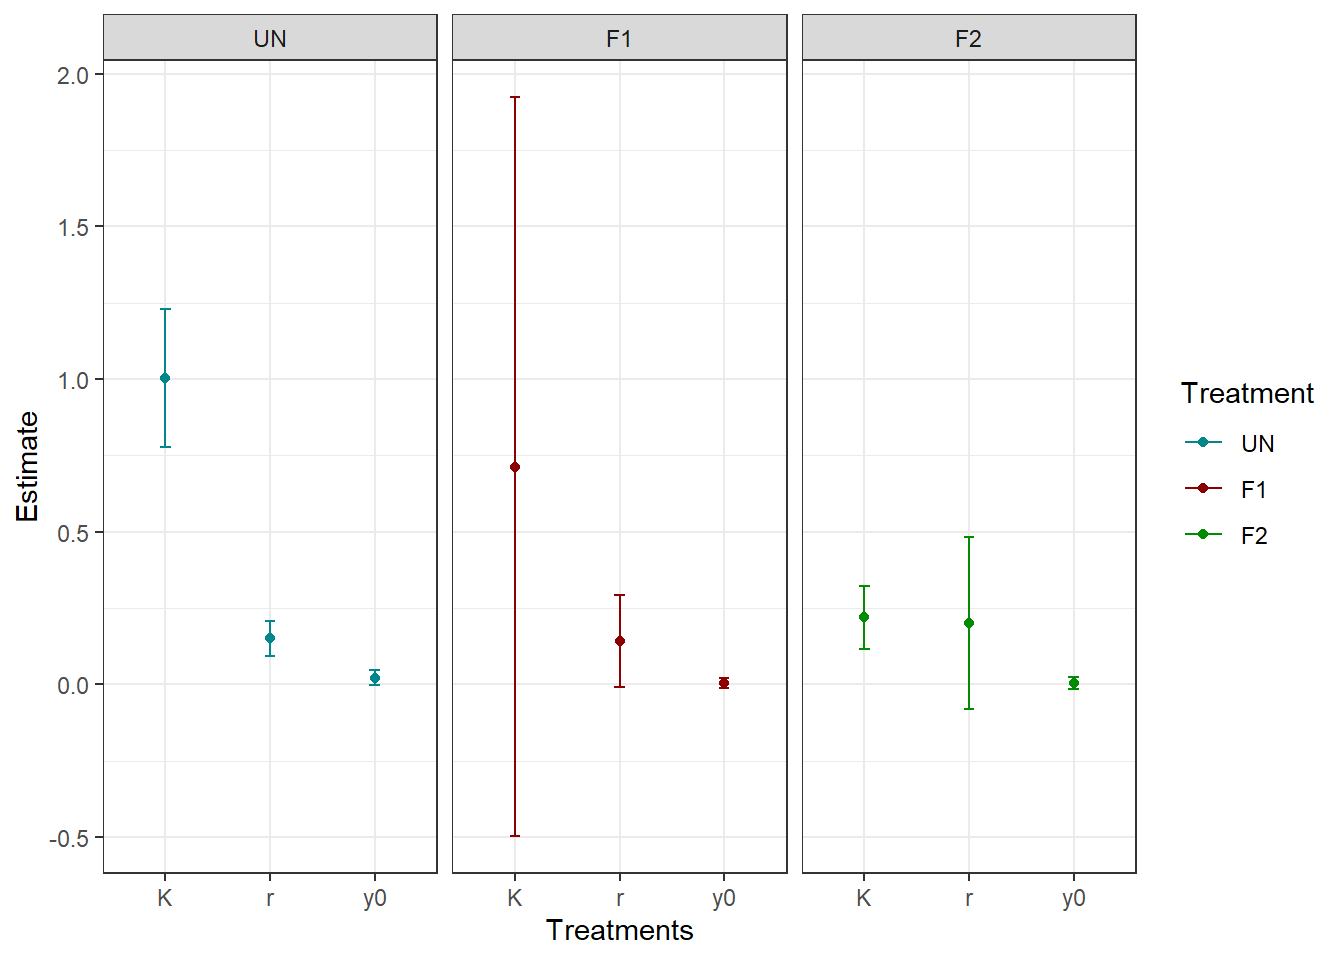
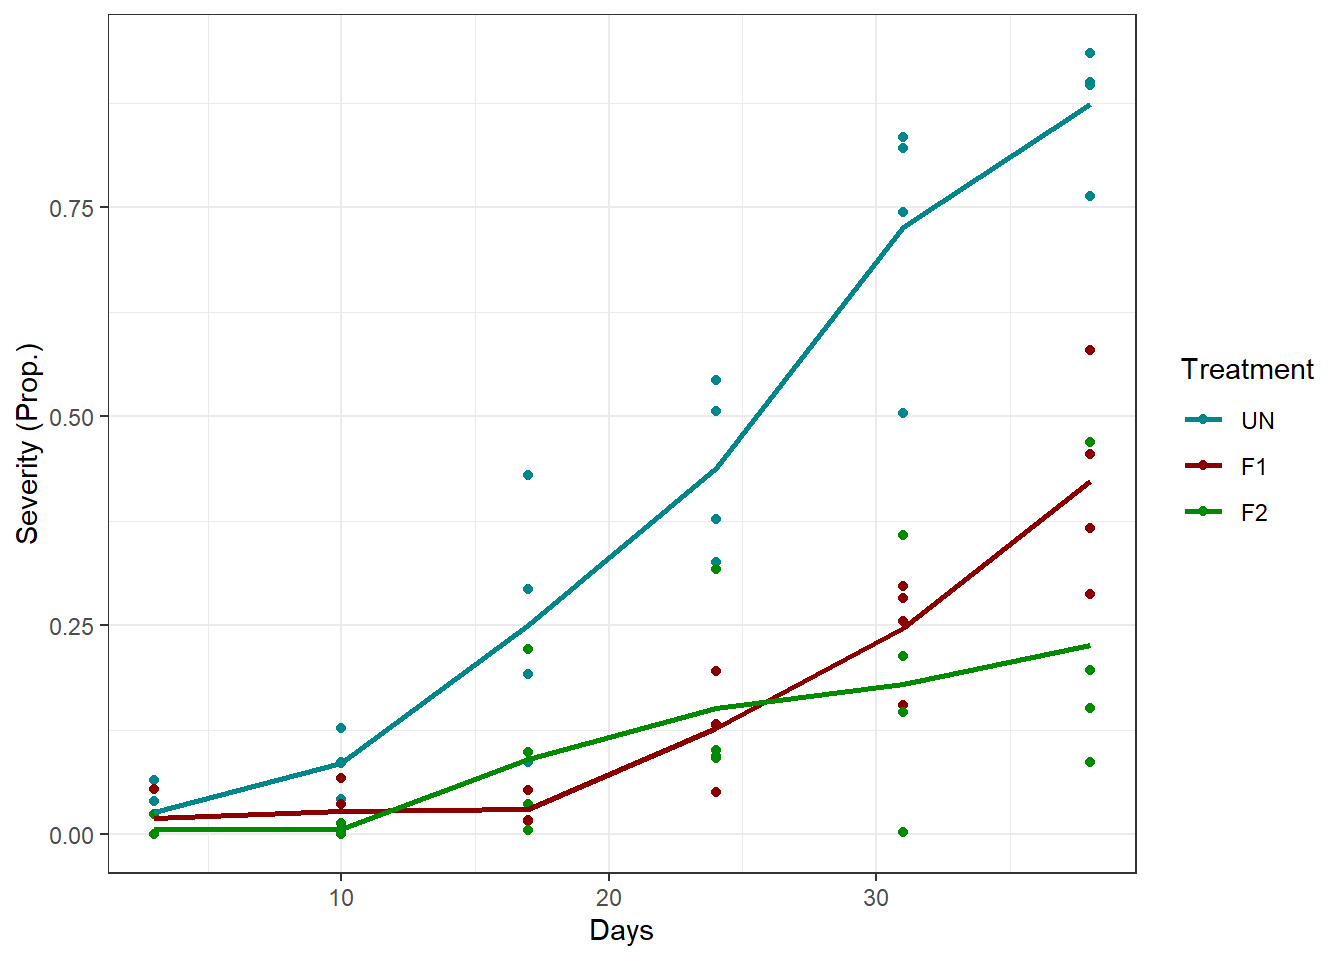
Link bug correction for hands on

diff --git a/docs/introduction-and-applied-example.html b/docs/introduction-and-applied-example.html
@@ -241,7 +241,7 @@ div.csl-indent {
 <span id="cb1-15"><a href="introduction-and-applied-example.html#cb1-15" tabindex="-1"></a>  <span class="fu">labs</span>(<span class="at">y =</span> <span class="st">&quot;Severity (Prop.)&quot;</span>, <span class="at">x =</span> <span class="st">&quot;Days&quot;</span>, <span class="at">colour =</span> <span class="st">&quot;Treatment&quot;</span>) <span class="sc">+</span></span>
 <span id="cb1-16"><a href="introduction-and-applied-example.html#cb1-16" tabindex="-1"></a>  <span class="fu">theme_bw</span>()</span></code></pre></div>
 </details>
-<p><img src="Analyzing-Biological-Processes-Over-Time_files/figure-html/unnamed-chunk-2-1.png" alt="" width="672" /></p>
+<p><img src="Analyzing-Biological-Processes-Over-Time_files/figure-html/unnamed-chunk-4-1.png" alt="" width="672" /></p>
 <p>How would you analyse this?</p>
 <ul>
 <li><p>Pick one time and proceed with ANOVA + Multiple comparison</p>
@@ -483,7 +483,7 @@ What are your thoughts on why we chose these options?
 <span id="cb5-6"><a href="introduction-and-applied-example.html#cb5-6" tabindex="-1"></a>  <span class="fu">facet_wrap</span>(<span class="sc">~</span>trt) <span class="sc">+</span></span>
 <span id="cb5-7"><a href="introduction-and-applied-example.html#cb5-7" tabindex="-1"></a>  <span class="fu">theme_bw</span>()</span></code></pre></div>
 </details>
-<p><img src="Analyzing-Biological-Processes-Over-Time_files/figure-html/unnamed-chunk-4-1.png" alt="" width="672" /></p>
+<p><img src="Analyzing-Biological-Processes-Over-Time_files/figure-html/unnamed-chunk-6-1.png" alt="" width="672" /></p>
 <details class=chunk-details><summary class=chunk-summary><span class=chunk-summary-text>Code</span></summary>
 <div class="sourceCode" id="cb6"><pre class="sourceCode r"><code class="sourceCode r"><span id="cb6-1"><a href="introduction-and-applied-example.html#cb6-1" tabindex="-1"></a><span class="fu">kable</span>(est_long)</span></code></pre></div>
 </details>
@@ -648,7 +648,7 @@ What are your thoughts on why we chose these options?
 <span id="cb9-16"><a href="introduction-and-applied-example.html#cb9-16" tabindex="-1"></a>  <span class="fu">labs</span>(<span class="at">y =</span> <span class="st">&quot;Severity (Prop.)&quot;</span>, <span class="at">x =</span> <span class="st">&quot;Days&quot;</span>, <span class="at">colour =</span> <span class="st">&quot;Treatment&quot;</span>) <span class="sc">+</span></span>
 <span id="cb9-17"><a href="introduction-and-applied-example.html#cb9-17" tabindex="-1"></a>  <span class="fu">theme_bw</span>()</span></code></pre></div>
 </details>
-<p><img src="Analyzing-Biological-Processes-Over-Time_files/figure-html/unnamed-chunk-7-1.png" alt="" width="672" /></p>
+<p><img src="Analyzing-Biological-Processes-Over-Time_files/figure-html/unnamed-chunk-9-1.png" alt="" width="672" /></p>
 <p><br><br></p>
 <p><strong>How many units of y are increasing per day for each curve at the maximum growth point</strong><a href="#fn5" class="footnote-ref" id="fnref5"><sup>5</sup></a>?</p>
 <p><span class="math display">\[\frac{Kr}{4}\]</span></p>
@@ -788,7 +788,7 @@ What are your thoughts on why we chose these options?
 <span id="cb12-22"><a href="introduction-and-applied-example.html#cb12-22" tabindex="-1"></a>  <span class="fu">labs</span>(<span class="at">y =</span> <span class="st">&quot;Severity (Prop.) at day 60&quot;</span>, <span class="at">x =</span> <span class="st">&quot;Treatments&quot;</span>, <span class="at">colour =</span> <span class="st">&quot;Treatment&quot;</span>) <span class="sc">+</span></span>
 <span id="cb12-23"><a href="introduction-and-applied-example.html#cb12-23" tabindex="-1"></a>  <span class="fu">theme_bw</span>()</span></code></pre></div>
 </details>
-<p><img src="Analyzing-Biological-Processes-Over-Time_files/figure-html/unnamed-chunk-10-1.png" alt="" width="672" /></p>
+<p><img src="Analyzing-Biological-Processes-Over-Time_files/figure-html/unnamed-chunk-12-1.png" alt="" width="672" /></p>
 <p><br><br></p>
 <p><strong>Conclusion:</strong></p>
 <ul>

diff --git a/docs/discussion.html b/docs/discussion.html
@@ -321,7 +321,7 @@ div.csl-indent {
 </table>
 <p><br><br></p>
 <p><strong>Maximum slopes:</strong></p>
-<p><img src="Analyzing-Biological-Processes-Over-Time_files/figure-html/unnamed-chunk-15-1.png" alt="" width="672" /></p>
+<p><img src="Analyzing-Biological-Processes-Over-Time_files/figure-html/unnamed-chunk-17-1.png" alt="" width="672" /></p>
 <ul>
 <li><p>For treatments such as “UN” and “F2”, where the data show clearer patterns, the three modeling approaches produce very similar estimates of maximum slope.</p></li>
 <li><p>Comparing beta regression and the LDPC, the second shows greater uncertainty. This may reflect differences in model structure, the LDPC estimates three parameters that jointly determine the trajectory and maximum slope, whereas the beta regression with a linear predictor has a simpler mean structure.</p></li>
@@ -337,7 +337,7 @@ div.csl-indent {
 </center>
 <p><br><br></p>
 <p><strong>Predicted curves and prediction for day 60:</strong></p>
-<p><img src="Analyzing-Biological-Processes-Over-Time_files/figure-html/unnamed-chunk-16-1.png" alt="" width="672" /></p>
+<p><img src="Analyzing-Biological-Processes-Over-Time_files/figure-html/unnamed-chunk-18-1.png" alt="" width="672" /></p>
 <ul>
 <li><p>LDPC is constrained by <span class="math inline">\(K\)</span>, the curve stop growing and approaches the maximum potential at that point (slope = 0);</p></li>
 <li><p>The beta regression is constrained between 0 and 1 by the assumed distribution, coupled with the inverse logit, it produces this sigmoidal shape that increases toward 1.</p></li>

diff --git a/docs/hands-on-beta-regression.html b/docs/hands-on-beta-regression.html
@@ -218,7 +218,7 @@ div.csl-indent {
 <p>Here we are treating block as a random effect, which means that our observed blocks are a sample from a larger group (population) of blocks, and that the block effect causes a random deviation in our response mean. In the model, <span class="math inline">\(y \mid b\)</span> indicates conditional distribution, in other words, the distribution of <span class="math inline">\(y\)</span> after we fix/observe a level of block <span class="math inline">\(b\)</span>.</p>
 <p>More about it here: <a href="https://www.k-state.edu/digital-ag-advanced-analytics/events/linear-mixed-models-2026.html">Fundamentals of Linear Mixed Models for Designed Experiments</a></p>
 <p>You can also learn more about Generalized Linear Models (GLMs) here: <span class="citation">Stroup et al. (2024)</span></p>
-<p>Script and data <a href="https://github.com/ClaudioDSJr11/Analyzing-Biological-Processes-Over-Time/tree/main/hands_on_material">here!</a></p>
+<p>Script and data <a href="https://github.com/ClaudioDSJr11/Analyzing-Biological-Processes-Over-Time/blob/main/hands_on_material.zip">here!</a></p>
 <p><br><br></p>
 <p>Questions:</p>
 <ul>

diff --git a/docs/hands-on-polynomial-regression.html b/docs/hands-on-polynomial-regression.html
@@ -217,7 +217,7 @@ div.csl-indent {
 <p><span class="math display">\[y_{ijk} \sim N(\beta_{0i} + \beta_{1i}x_j + \beta_{2i}x^2_j + \beta_{3i}x^3_j, \, \sigma^2_b + \sigma^2)\]</span></p>
 <p>Here we are treating block as a random effect, which means that our observed blocks are a sample from a larger group (population) of blocks, and that the block effect causes a random deviation in our response mean.</p>
 <p>You can learn more about polynomials in here: <span class="citation">James et al. (2021)</span></p>
-<p>Script and data <a href="https://github.com/ClaudioDSJr11/Analyzing-Biological-Processes-Over-Time/tree/main/hands_on_material">here!</a></p>
+<p>Script and data <a href="https://github.com/ClaudioDSJr11/Analyzing-Biological-Processes-Over-Time/blob/main/hands_on_material.zip">here!</a></p>
 <p><br><br></p>
 <p>Questions:</p>
 <ul>
